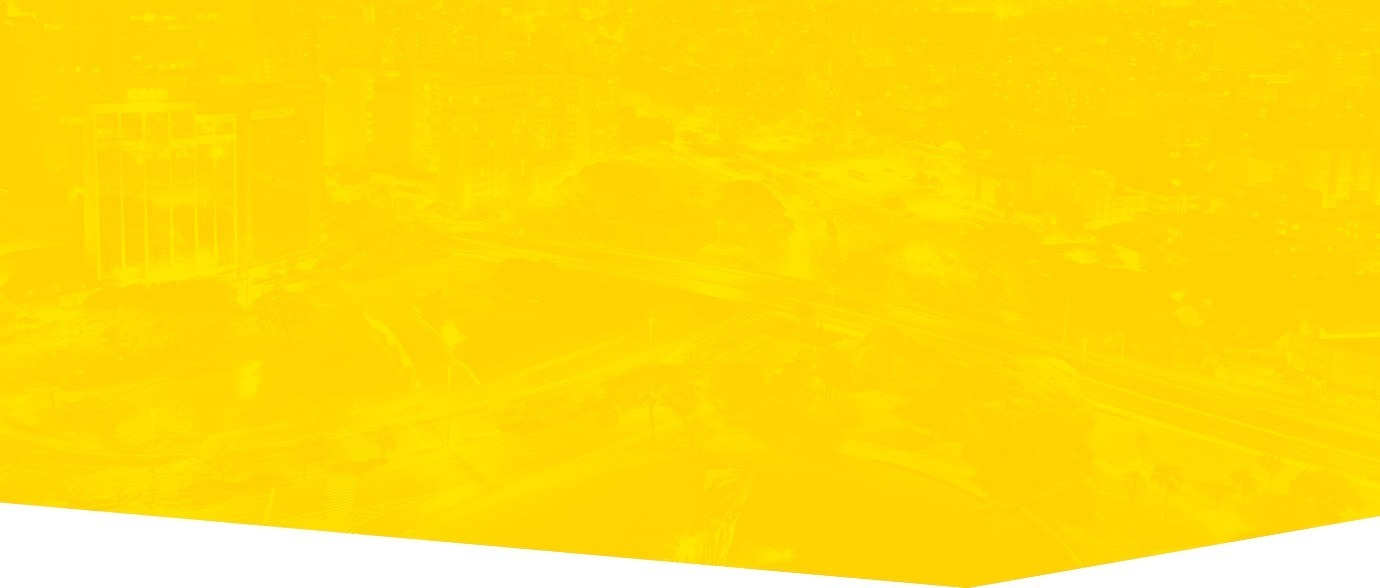
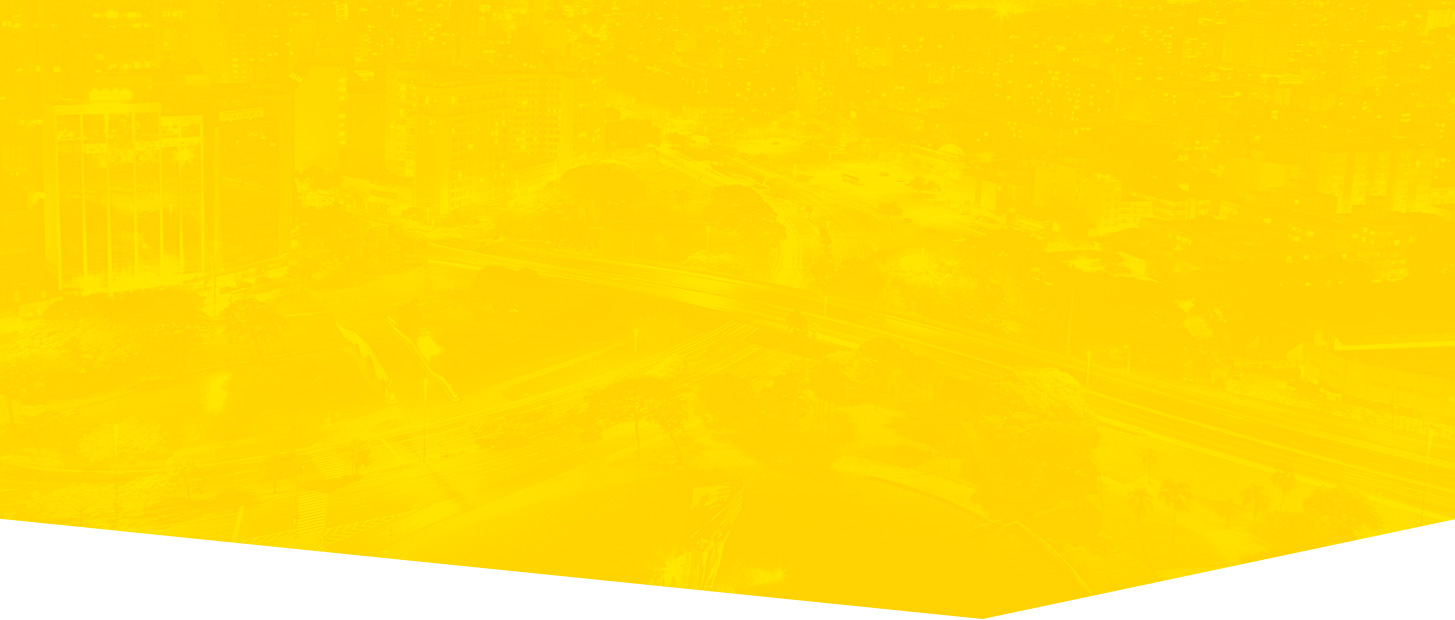
Adds retina display images

Changed region(s): [[0.592, 0.8265, 1.0, 1.0], [0.0, 0.8265, 0.4674, 0.949], [0.4674, 0.949, 0.592, 0.9796]]

diff --git a/assets/stylesheets/sass/organisms/_header.scss b/assets/stylesheets/sass/organisms/_header.scss
@@ -51,6 +51,32 @@
   line-height: auto;
 }
 
+.logo {
+  background-image: image-url('logo-codeland.png');
+  -webkit-background-size: 188px 51px;
+       -o-background-size: 188px 51px;
+          background-size: 188px 51px;
+  height: 51px;
+  width: 188px;
+  display: inline-block;
+
+  @media
+  only screen and (-webkit-min-device-pixel-ratio: 2),
+  only screen and (   min--moz-device-pixel-ratio: 2),
+  only screen and (     -o-min-device-pixel-ratio: 2/1),
+  only screen and (        min-device-pixel-ratio: 2),
+  only screen and (                min-resolution: 192dpi),
+  only screen and (                min-resolution: 2dppx) {
+    background-image: image-url('logo-codeland@2x.png');
+    -webkit-background-size: 188px 51px;
+        -o-background-size: 188px 51px;
+           background-size: 188px 51px;
+    height: 51px;
+    width: 188px;
+    display: inline-block;
+  }
+}
+
 @media screen and (max-width: 320px) {
   .header { padding-bottom: 0; }
 }

diff --git a/assets/stylesheets/sass/organisms/_intro.scss b/assets/stylesheets/sass/organisms/_intro.scss
@@ -3,6 +3,19 @@
   background-size: cover;
   background-position: center top;
   min-height: 620px;
+
+  @media
+  only screen and (-webkit-min-device-pixel-ratio: 2),
+  only screen and (   min--moz-device-pixel-ratio: 2),
+  only screen and (     -o-min-device-pixel-ratio: 2/1),
+  only screen and (        min-device-pixel-ratio: 2),
+  only screen and (                min-resolution: 192dpi),
+  only screen and (                min-resolution: 2dppx) {
+    background-image: image-url('intro-bg@2x.jpg');
+    background-size: cover;
+    background-position: center top;
+    min-height: 620px;
+  }
 }
 
 .intro__title {
